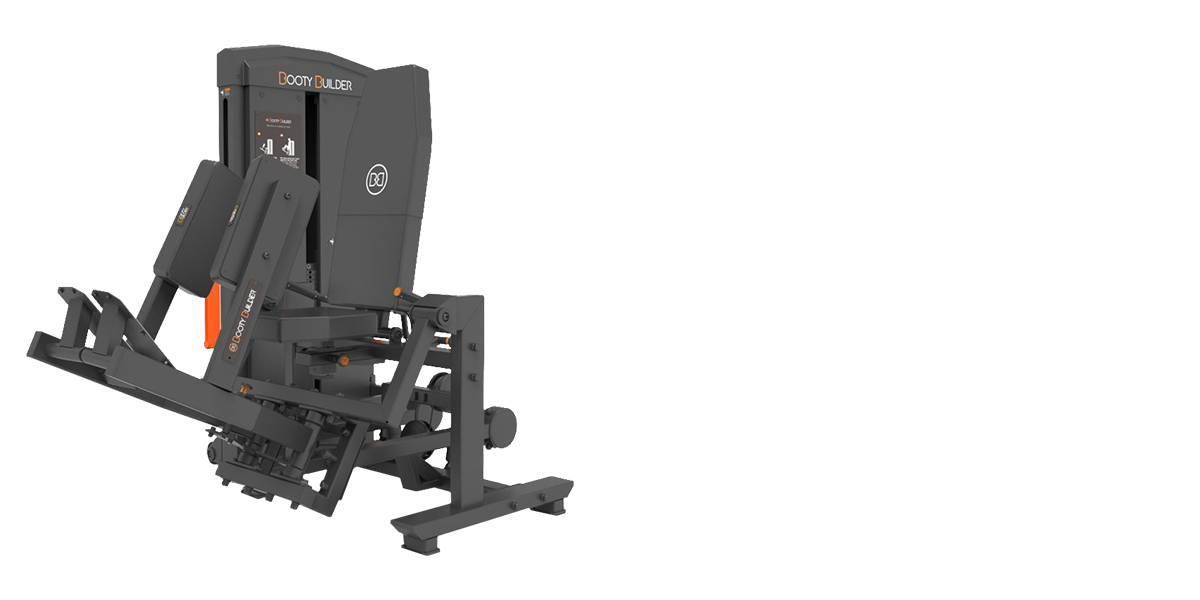
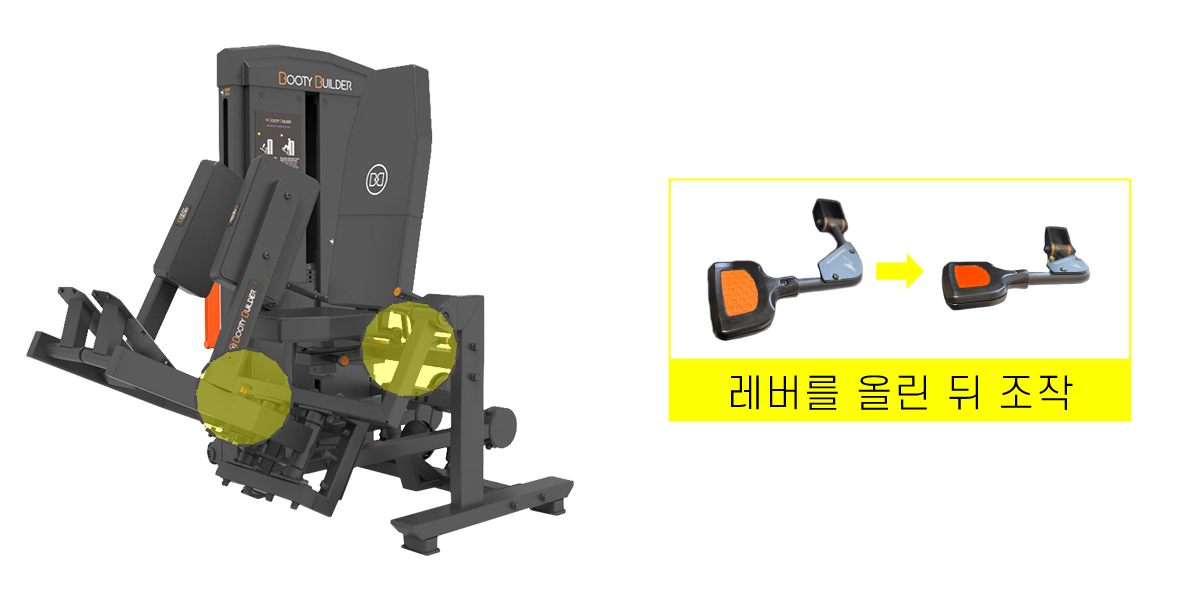
feat(qr): 3D 멀티 아웃싸이 / 부티빌더 V-스쿼트 / 펜듈럼 힙 프레스 기구조절사진 추가 (sw v21)

diff --git a/js/config.js b/js/config.js
@@ -5,7 +5,7 @@ var SUPABASE_ANON = 'eyJhbGciOiJIUzI1NiIsInR5cCI6IkpXVCJ9.eyJpc3MiOiJzdXBhYmFzZS
 var db = null;
 
 // 이미지 캐시 버전 — 사진 교체 시 +1 (브라우저/CDN/SW 캐시 무효화용)
-var IMG_VERSION = '20';
+var IMG_VERSION = '21';
 
 function initDB() {
   if (!window.supabase) {

diff --git a/service-worker.js b/service-worker.js
@@ -1,4 +1,4 @@
-var CACHE_NAME = 'veragym-qr-v20';
+var CACHE_NAME = 'veragym-qr-v21';
 var STATIC_ASSETS = [
   './',
   './index.html',
